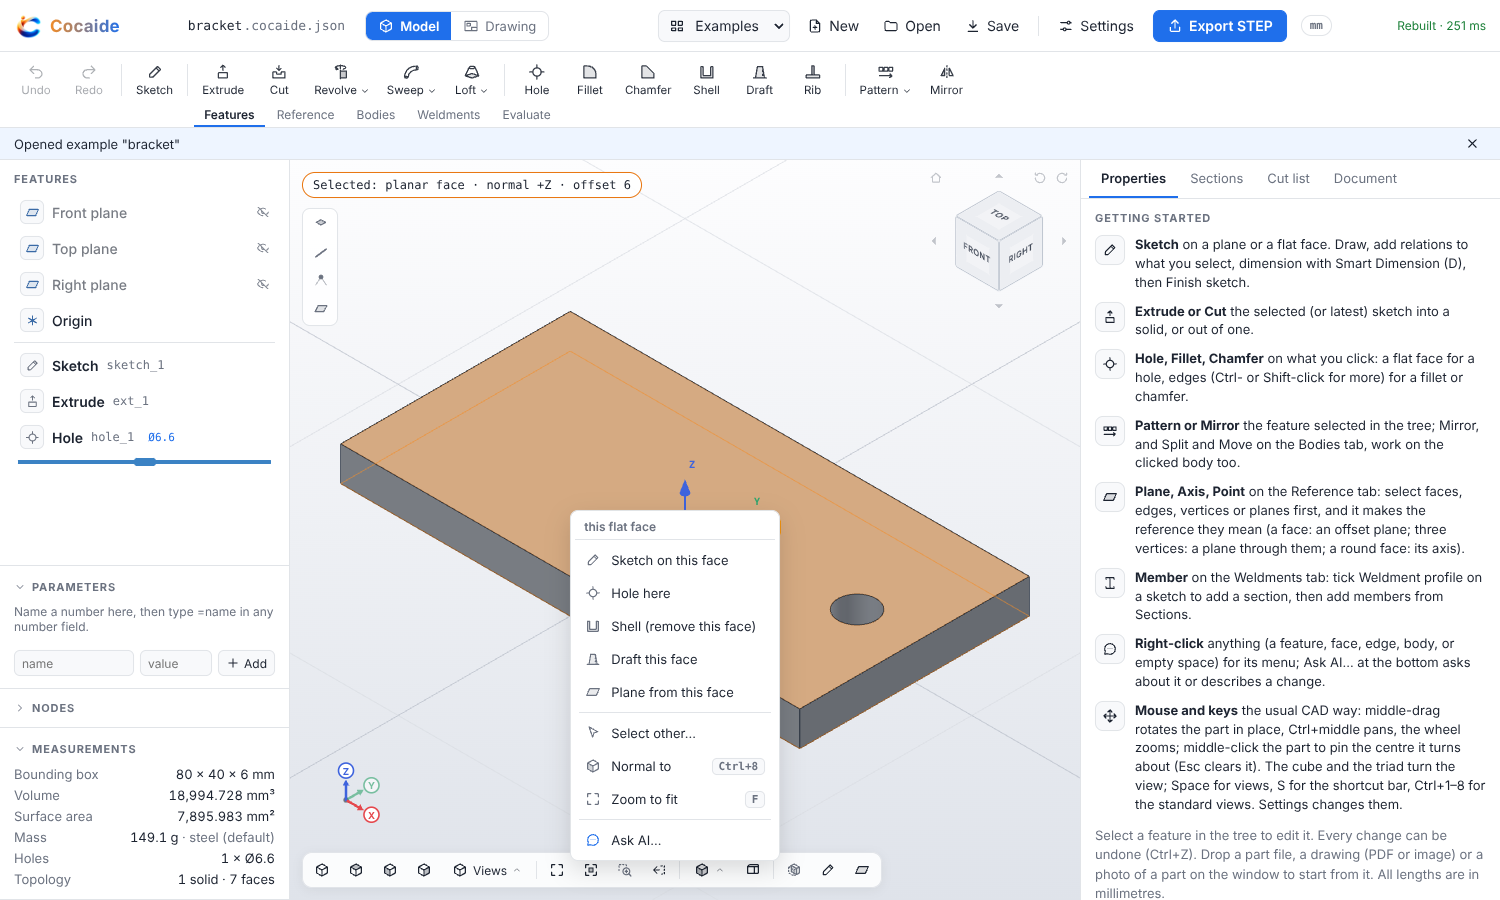
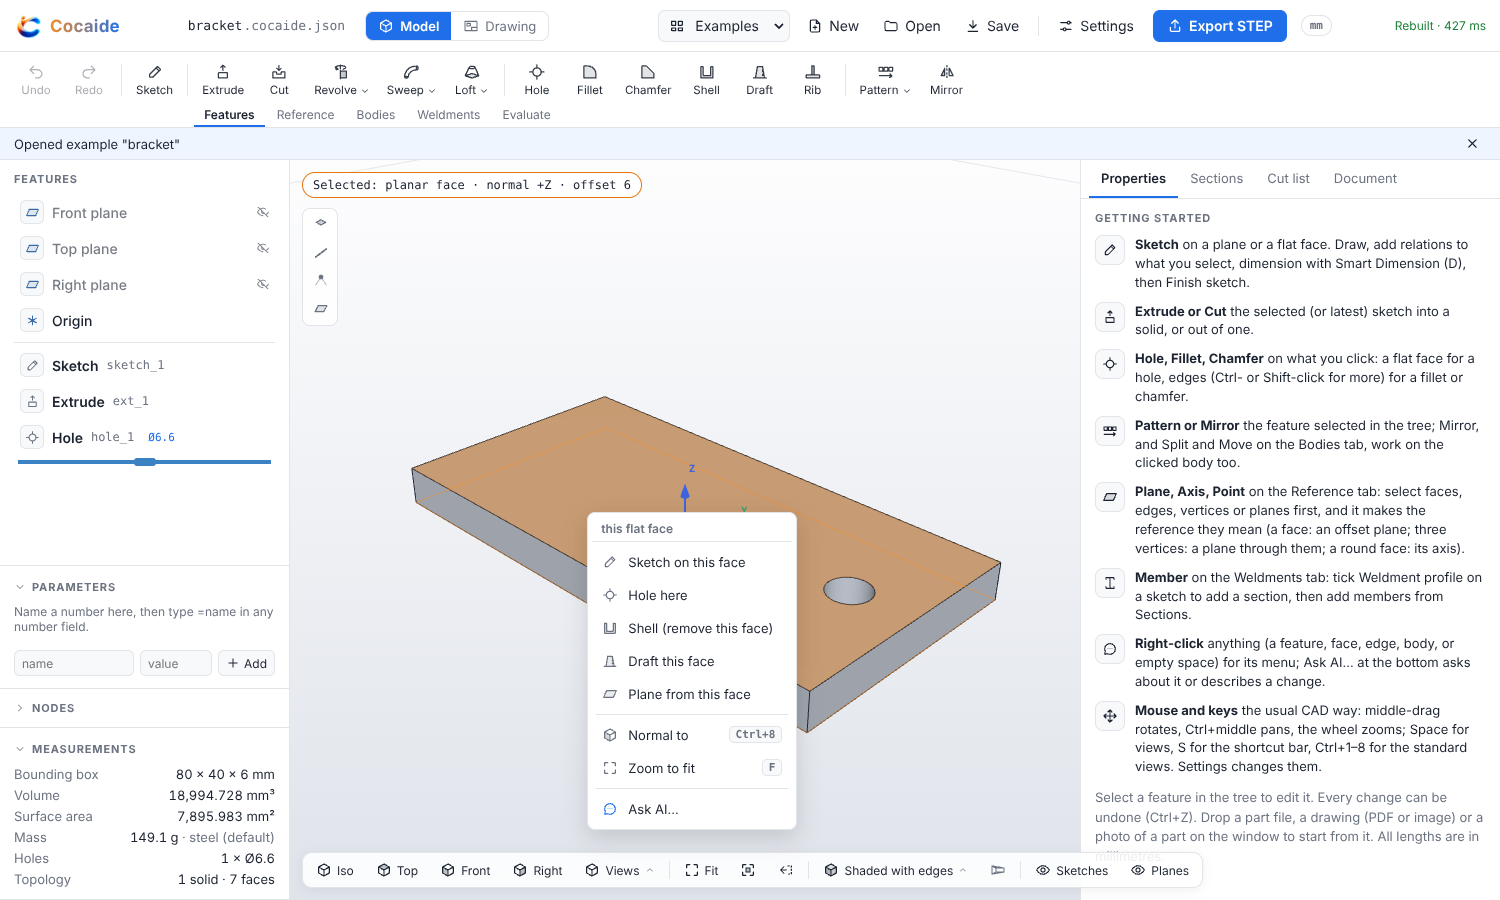
Phase P wave 1A: the view orbits about the part, orthographic by default, triad, view cube, glides, zoom to area, named views, select other, and a section view of up to three planes
The part spins in place: a rotation turns about a pinned point (middle-click),
the visible part's middle while it is on screen, or the part under the middle
of the view when zoomed in; the look-at point is re-seated at that depth. Speed
and Keep Z up in Settings > Mouse. True isometric, dimetric, trimetric. View
changes glide (Settings, reduce motion honoured). Section: drag arrow, tilt,
three planes as a corner cut with caps on each, section bodies, cap colours,
kept on and remembered per document. Docs screenshots rewritten by the e2e run
are restored.

Claude-Session: https://claude.ai/code/session_01ChhJU5NmYXBo7cA4eKhPqx

diff --git a/src/ui/styles.css b/src/ui/styles.css
@@ -1551,3 +1551,9 @@ svg.icon { flex: none; display: block; }
 .view-triad .triad-axis { pointer-events: auto; }
 .view-cube { pointer-events: none; }
 .view-cube .cube-cell, .view-cube .cube-turn { pointer-events: auto; }
+/* narrower windows: the view bar keeps to its icons, and the Section tag sits above it */
+@media (max-width: 1360px) {
+  .view-buttons .label { display: none; }
+  .view-buttons button { padding: 0 6px; }
+  .section-tag { bottom: 52px; }
+}

diff --git a/src/ui/Viewport.tsx b/src/ui/Viewport.tsx
@@ -2155,7 +2155,7 @@ export function Viewport({
           data-testid="view-menu-open"
         >
           <Icon name="model" />
-          Views
+          <span className="label">Views</span>
           <Icon name="up" size={10} className="caret" />
         </button>
         <span className="sep" />
